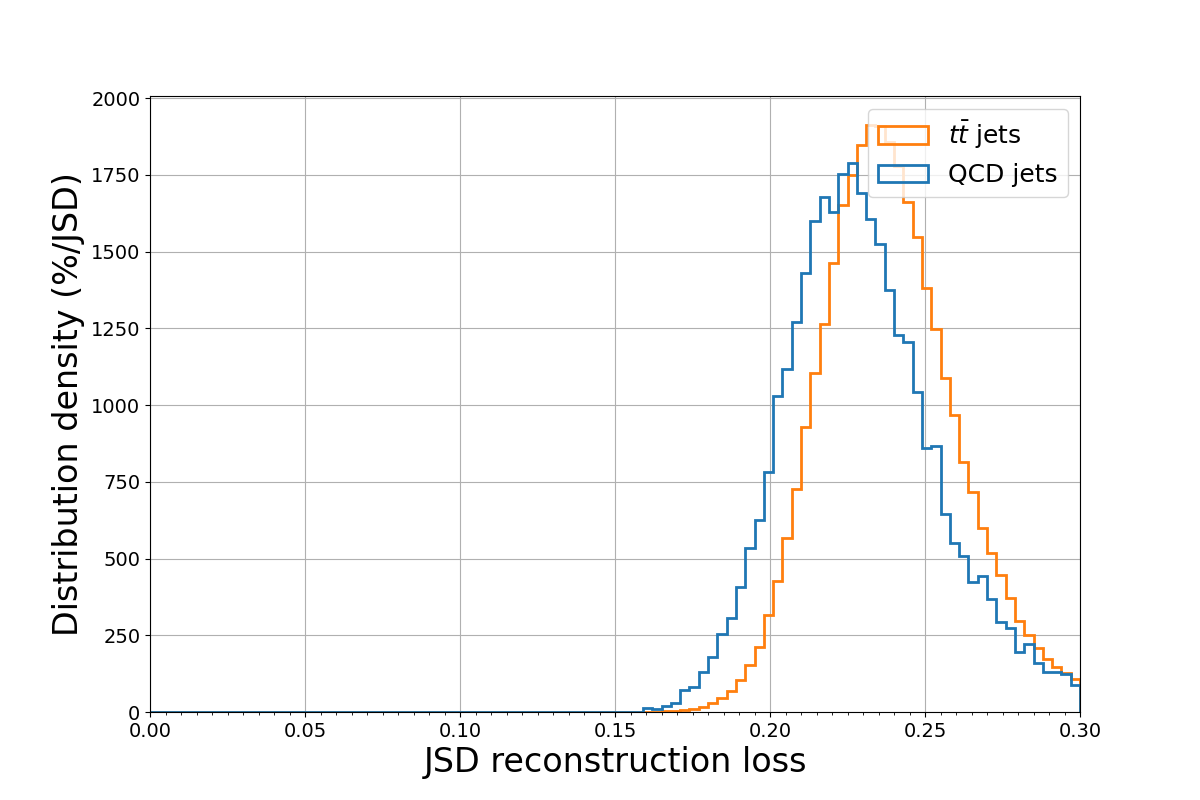
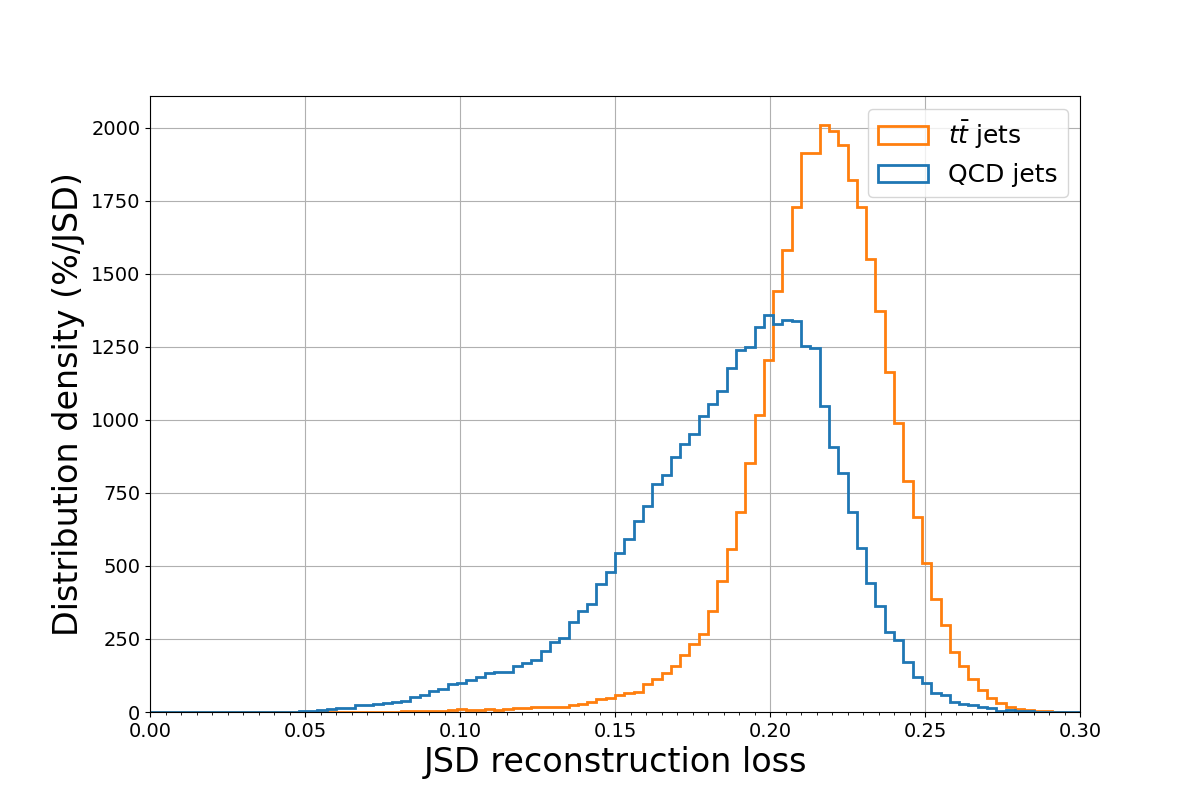
Initial commit

diff --git a/vae.py b/vae.py
@@ -9,18 +9,20 @@ import numpy           as np
 import tensorflow      as tf
 import multiprocessing as mp
 import os, sys, pickle
-from argparse  import ArgumentParser
-from itertools import accumulate
-from sklearn   import model_selection, utils
-from utils     import make_sample, fit_scaler, apply_scaler, reweight_sample, loss_function, apply_cut
-from models    import create_model, callback
-from plots     import var_distributions, pt_reconstruction, loss_distributions, mass_correlation, ROC_curves
+from   argparse  import ArgumentParser
+from   itertools import accumulate
+from   tabulate  import tabulate
+from   sklearn   import model_selection, utils
+from   utils     import make_sample, fit_scaler, apply_scaler, reweight_sample, loss_function, apply_cut
+from   models    import create_model, callback
+from   plots     import var_distributions, pt_reconstruction, loss_distributions, mass_correlation, ROC_curves
 
 
 # PROGRAM ARGUMENTS
 parser = ArgumentParser()
 parser.add_argument( '--n_train'       , default =     1e6, type = float         )
 parser.add_argument( '--n_valid'       , default =     1e6, type = float         )
+parser.add_argument( '--n_test'        , default =     1e6, type = float         )
 parser.add_argument( '--n_W'           , default =       0, type = float         )
 parser.add_argument( '--n_top'         , default =     1e6, type = float         )
 parser.add_argument( '--n_constituents', default =      20, type = int           )
@@ -34,31 +36,39 @@ parser.add_argument( '--patience'      , default =      15, type = int          
 parser.add_argument( '--n_iter'        , default =       1, type = int           )
 parser.add_argument( '--n_gpus'        , default =       1, type = int           )
 parser.add_argument( '--apply_cut'     , default = 'OFF'                         )
+parser.add_argument( '--plotting'      , default = 'ON'                          )
 parser.add_argument( '--output_dir'    , default = 'outputs'                     )
 parser.add_argument( '--model_in'      , default = ''                            )
 parser.add_argument( '--model_out'     , default = 'model.h5'                    )
 parser.add_argument( '--scaler_in'     , default = ''                            )
 parser.add_argument( '--scaler_out'    , default = 'scaler.pkl'                  )
 args = parser.parse_args()
+for key in ['n_train', 'n_valid', 'n_test', 'n_W', 'n_top', 'batch_size']:
+    vars(args)[key] = int(vars(args)[key])
 
 
 # CUTS ON SIGNAL AND BACKGROUND SAMPLES
 sig_cuts = '(sample["pt"] >= 0) & (sample["pt"] <= 2000)'
 bkg_cuts = '(sample["pt"] >= 0) & (sample["pt"] <= 6000)'
-args.n_valid = (args.n_train, args.n_train+args.n_valid)
-args.n_train = (     0      , args.n_train             )
+
+
+# SAMPLES DEFINITIONS
+args.n_train = (0              , args.n_train                  )
+args.n_valid = (args.n_train[1], args.n_train[1] + args.n_valid)
+args.n_test  = (args.n_valid[1], args.n_valid[1] + args.n_test )
 
 
 # LOADIND PRE-TRAINED WEIGHTS AND SCALER
 n_gpus = min(args.n_gpus, len(tf.config.experimental.list_physical_devices('GPU')))
 model  = create_model(4*args.n_constituents, args.FCN_neurons, args.latent_dim, args.lr, args.beta, n_gpus)
+print('PROGRAM ARGUMENTS:\n'+tabulate(vars(args).items(), tablefmt='psql')+'\n')
 args.model_in  = args.output_dir+'/'+args.model_in ; args.model_out  = args.output_dir+'/'+args.model_out
 args.scaler_in = args.output_dir+'/'+args.scaler_in; args.scaler_out = args.output_dir+'/'+args.scaler_out
 if os.path.isfile(args.model_in):
-    print('Loading pre-trained weights from', args.model_in)
+    print('Loading pre-trained weights from:', args.model_in)
     model.load_weights(args.model_in)
 if os.path.isfile(args.scaler_in):
-    print('Loading scaler              from', args.scaler_in)
+    print('Loading quantile transform  from:', args.scaler_in)
     scaler = pickle.load(open(args.scaler_in, 'rb'))
 args.output_dir += '/plots'
 
@@ -86,18 +96,29 @@ if args.n_epochs > 0:
     model.load_weights(args.model_out)
 
 
-# LOADING VALIDATION DATA AND MODEL PREDICTIONS
-sample = make_sample(args.n_valid, args.n_top, bkg_cuts, sig_cuts, bkg='qcd', sig='top')
+# LOADING VALIDATION DATA AND PERFORMING MODEL PREDICTIONS
+sample = make_sample(args.n_test, args.n_top, bkg_cuts, sig_cuts, bkg='qcd', sig='top')
 y_true = np.int_(np.concatenate([np.zeros(np.sum(sample['JZW']==-1)), np.ones(np.sum(sample['JZW']>=0))]))
 #var_distributions(sample, args.output_dir, var='M', sig_bins=200, bkg_bins=600); sys.exit()
-print('\nValid sample predictions')
+print('\n+'+30*'-'+'+\n+--- TEST SAMPLE EVALUATION ---+\n+'+30*'-'+'+\n')
 X_true = apply_scaler(sample['jets'], scaler); print()
-#X_pred = model.predict(X_true, batch_size=max(1,n_gpus)*10000, verbose=1); print()
+if args.n_iter > 1: print('Validating with', args.n_iter, 'iterations:')
 X_pred = np.empty(X_true.shape+(args.n_iter,))
 for n in np.arange(args.n_iter):
     X_pred[...,n] = model.predict(X_true, batch_size=max(1,n_gpus)*10000, verbose=1)
 X_pred = np.mean(X_pred, axis=2); print()
 
+
+'''
+from utils import best_cut, get_idx
+X_loss = loss_function(X_true, X_pred, metric='JSD')
+m_tuples = get_idx(300, n_sets=6)
+for m in m_tuples:
+    print(); print('Mass range:', m)
+    cuts = '(X_mass >= ' + str(m[0]) + ') & (X_mass <= ' + str(m[1]) + ')'
+    best_cut(y_true, X_loss, sample['M'], sample['weights'], cuts)
+sys.exit()
+'''
 
 # APPLY CUT ON RECONSTRUCTION LOSS
 if args.apply_cut == 'ON':
@@ -106,7 +127,8 @@ if args.apply_cut == 'ON':
 
 
 # PLOTTING RESULTS'
-metrics_list = ['JSD', 'MSE', 'KLD'] + ['EMD']; #sample['weights'] = None
+if args.plotting != 'ON': sys.exit()
+metrics_list = ['JSD', 'MSE', 'KLD', 'EMD']; #sample['weights'] = None
 processes = [mp.Process(target=pt_reconstruction, args=(X_true, X_pred, y_true, sample['weights'], args.output_dir))]
 for metric in metrics_list:
     X_loss     = loss_function(X_true, X_pred, metric)

diff --git a/utils.py b/utils.py
@@ -34,7 +34,7 @@ def upsampling(sample, target_size):
 
 
 def load_data(data_file, data_key, idx, n_constituents=20, cuts='', multiprocess=True):
-    idx = (int(idx[0]),int(idx[1]))
+    #idx = (int(idx[0]),int(idx[1]))
     if multiprocess:
         def get_data(data_file, data_key, idx, n_constituents, return_dict):
             return_dict[idx] = h5py.File(data_file,"r")[data_key][idx[0]:idx[1],:4*n_constituents]
@@ -137,6 +137,7 @@ def jets_3v(sample, idx=[0,None]):
 
 
 def loss_function(P, Q, metric, delta=1e-16):
+    P, Q = np.maximum(np.float64(P), delta), np.maximum(np.float64(Q), delta)
     if metric == 'JSD' or metric == 'EMD':
         idx_tuples = get_idx(len(P), n_sets=mp.cpu_count())
         target     = JSD if metric == 'JSD' else EMD
@@ -148,7 +149,7 @@ def loss_function(P, Q, metric, delta=1e-16):
     if metric == 'MSE'   : return np.mean(      (P - Q)**2, axis=1)
     if metric == 'MAE'   : return np.mean(np.abs(P - Q)   , axis=1)
     if metric == 'DeltaE': return jets_4v(P)['E'] - jets_4v(Q)['E']
-    P, Q = np.maximum(np.float64(P), delta), np.maximum(np.float64(Q), delta)
+    #P, Q = np.maximum(np.float64(P), delta), np.maximum(np.float64(Q), delta)
     if metric == 'KLD'   : return np.mean(P*np.log(P/Q)   , axis=1)
     if metric == 'X-S'   : return np.mean(Q*np.log(1/P)   , axis=1)
 
@@ -158,7 +159,7 @@ def fit_scaler(sample, scaler_out, reshape=True):
     if reshape: sample = np.reshape(sample, (-1,4))
     scaler = preprocessing.QuantileTransformer(n_quantiles=10000).fit(sample)
     print('(', '\b'+format(time.time() - start_time, '2.1f'), '\b'+' s)')
-    print('Saving scaler file in', scaler_out)
+    print('Saving quantile transform to', scaler_out)
     pickle.dump(scaler, open(scaler_out, 'wb'))
     return scaler
 def apply_scaler(sample, scaler, reshape=True):
@@ -180,7 +181,7 @@ def inverse_scaler(sample, scaler, reshape=True):
 
 
 def best_cut(y_true, X_loss, X_mass, weights, cuts=''):
-    cuts = '(X_mass >= 140) & (X_mass <= 200)'
+    #cuts = '(X_mass >= 140) & (X_mass <= 200)'
     if cuts != '':
         y_true  = y_true [eval(cuts)]
         X_loss  = X_loss [eval(cuts)]
@@ -188,8 +189,9 @@ def best_cut(y_true, X_loss, X_mass, weights, cuts=''):
     fpr, tpr, thresholds = metrics.roc_curve(y_true, X_loss, pos_label=0, sample_weight=weights)
     len_0      = np.sum(fpr==0)
     thresholds = thresholds[len_0:]       [tpr[len_0:]>0.01]
-    #ratios     = (tpr[len_0:]/fpr[len_0:])[tpr[len_0:]>0.01]
-    ratios     = (tpr[len_0:]/np.sqrt(fpr[len_0:]))[tpr[len_0:]>0.01]
+    ratios     = (tpr[len_0:]/fpr[len_0:])[tpr[len_0:]>0.01]
+    #print('Best wp:', format(thresholds[np.argmax(ratios)],'.3f'))
+    #print('Best gain:', format(np.max(ratios),'.2f'))
     return thresholds[np.argmax(ratios)]
 
 

diff --git a/models.py b/models.py
@@ -10,7 +10,7 @@ def create_model(input_dim, FCN_neurons, latent_dim, lr, beta, n_gpus):
     with strategy.scope():
         model = FCN_VAE(input_dim, FCN_neurons, latent_dim, beta)
         print('\nNEURAL NETWORK ARCHITECTURE'); model.summary(); print()
-        model.compile(optimizer=optimizers.Adam(lr=lr, amsgrad=False), loss='binary_crossentropy')
+        model.compile(optimizer=optimizers.Adam(lr=lr, amsgrad=True), loss='binary_crossentropy')
         #model.compile(optimizer=optimizers.Adam(lr=lr, amsgrad=True), loss='mean_squared_error')
         #model.compile(optimizer=optimizers.RMSprop(lr=lr), loss='binary_crossentropy')
     return model
@@ -63,6 +63,7 @@ def FCN_VAE(input_dim, FCN_neurons, latent_dim, beta):
     latent_loss    = -0.5 * tf.keras.backend.sum(1 + coding_log_var - tf.exp(coding_log_var)
                                                  - tf.square(coding_mean), axis=-1)
     vae.add_loss(beta*tf.keras.backend.mean(latent_loss)/input_dim)
+    #vae.add_loss(beta*tf.keras.backend.mean(latent_loss))
     return vae
 
 

diff --git a/plots.py b/plots.py
@@ -157,12 +157,15 @@ def ROC_curves(X_true, y_true, X_pred, weights, output_dir, metrics_list, wps):
     plt.legend(loc='upper right', fontsize=16)
     plt.legend(loc='upper right', fontsize=16)
     plt.subplot(2, 1, 2); pylab.grid(True); axes = plt.gca()
+    max_gain = 0
     for metric in metrics_list:
         fpr, tpr = [metrics_dict[metric][key] for key in ['fpr','tpr']]
-        len_0 = np.sum(fpr==0)
-        plt.plot(100*tpr[len_0:], tpr[len_0:]/fpr[len_0:], label=metric, lw=2, color=colors_dict[metric])
+        len_0    = np.sum(fpr==0)
+        gain     = tpr[len_0:]/fpr[len_0:]
+        max_gain = max(max_gain, np.max(gain[100*tpr[len_0:]>=1]))
+        plt.plot(100*tpr[len_0:], gain, label=metric, lw=2, color=colors_dict[metric])
     pylab.xlim(1,100)
-    pylab.ylim(1,5)
+    pylab.ylim(1,np.ceil(max_gain))
     plt.xscale('log')
     plt.xticks([1,10,100], ['1','10', '100'])
     plt.xlabel('$\epsilon_{\operatorname{sig}}$ (%)', fontsize=25)

diff --git a/README.md b/README.md
@@ -5,7 +5,7 @@ Variational autoencoder for anomaly detection at the Large Hadron Collider
 # Training at LPS (atlas15 or atlas16)
 1) Clone framework from GitHub
    ```
-   git clone git@github.com:dominiquegodin/ATLAS-VAE.git
+   git clone https://github.com/dominiquegodin/ATLAS-VAE.git
    ```
 2) Move to framework directory
    ```
@@ -19,7 +19,7 @@ Variational autoencoder for anomaly detection at the Large Hadron Collider
    ```
    sbatch -w atlas15 sbatch.sh
    ```
-5) Send array jobs to Slurm manager (e.g. id 1 to 10)
+5) Send array jobs to Slurm manager (e.g. for id 1 to 10)
    ```
    sbatch -w atlas15 sbatch.sh
    ```
@@ -41,13 +41,17 @@ Variational autoencoder for anomaly detection at the Large Hadron Collider
    salloc -w atlas15 --time=00:30:00
    . sbatch.sh
    ```
+10) Monitor training in real time
+   ```
+   tail -f -n 1000 $log_file_name
+   ```
 
 
-# Using vae.py arguments
+# Arguments for vae.py
 * n_train: number of training QCD jets
-* n_W    : number of training W jets
 * n_valid: number of validation QCD jets
-* n_top  : number of validation top jets
+* n_test: number of test QCD jets
+* n_W    : number of training W jets
 * n_top  : number of validation top jets
 * n_constituents: number of constituents
 * batch_size: size of training batches
@@ -60,3 +64,4 @@ Variational autoencoder for anomaly detection at the Large Hadron Collider
 * n_iter: number of iterations for validation
 * n_gpus: number of GPUs for distributed training
 * apply_cut: apply best cut to mass histograms
+* plotting: enable plotting performance results
